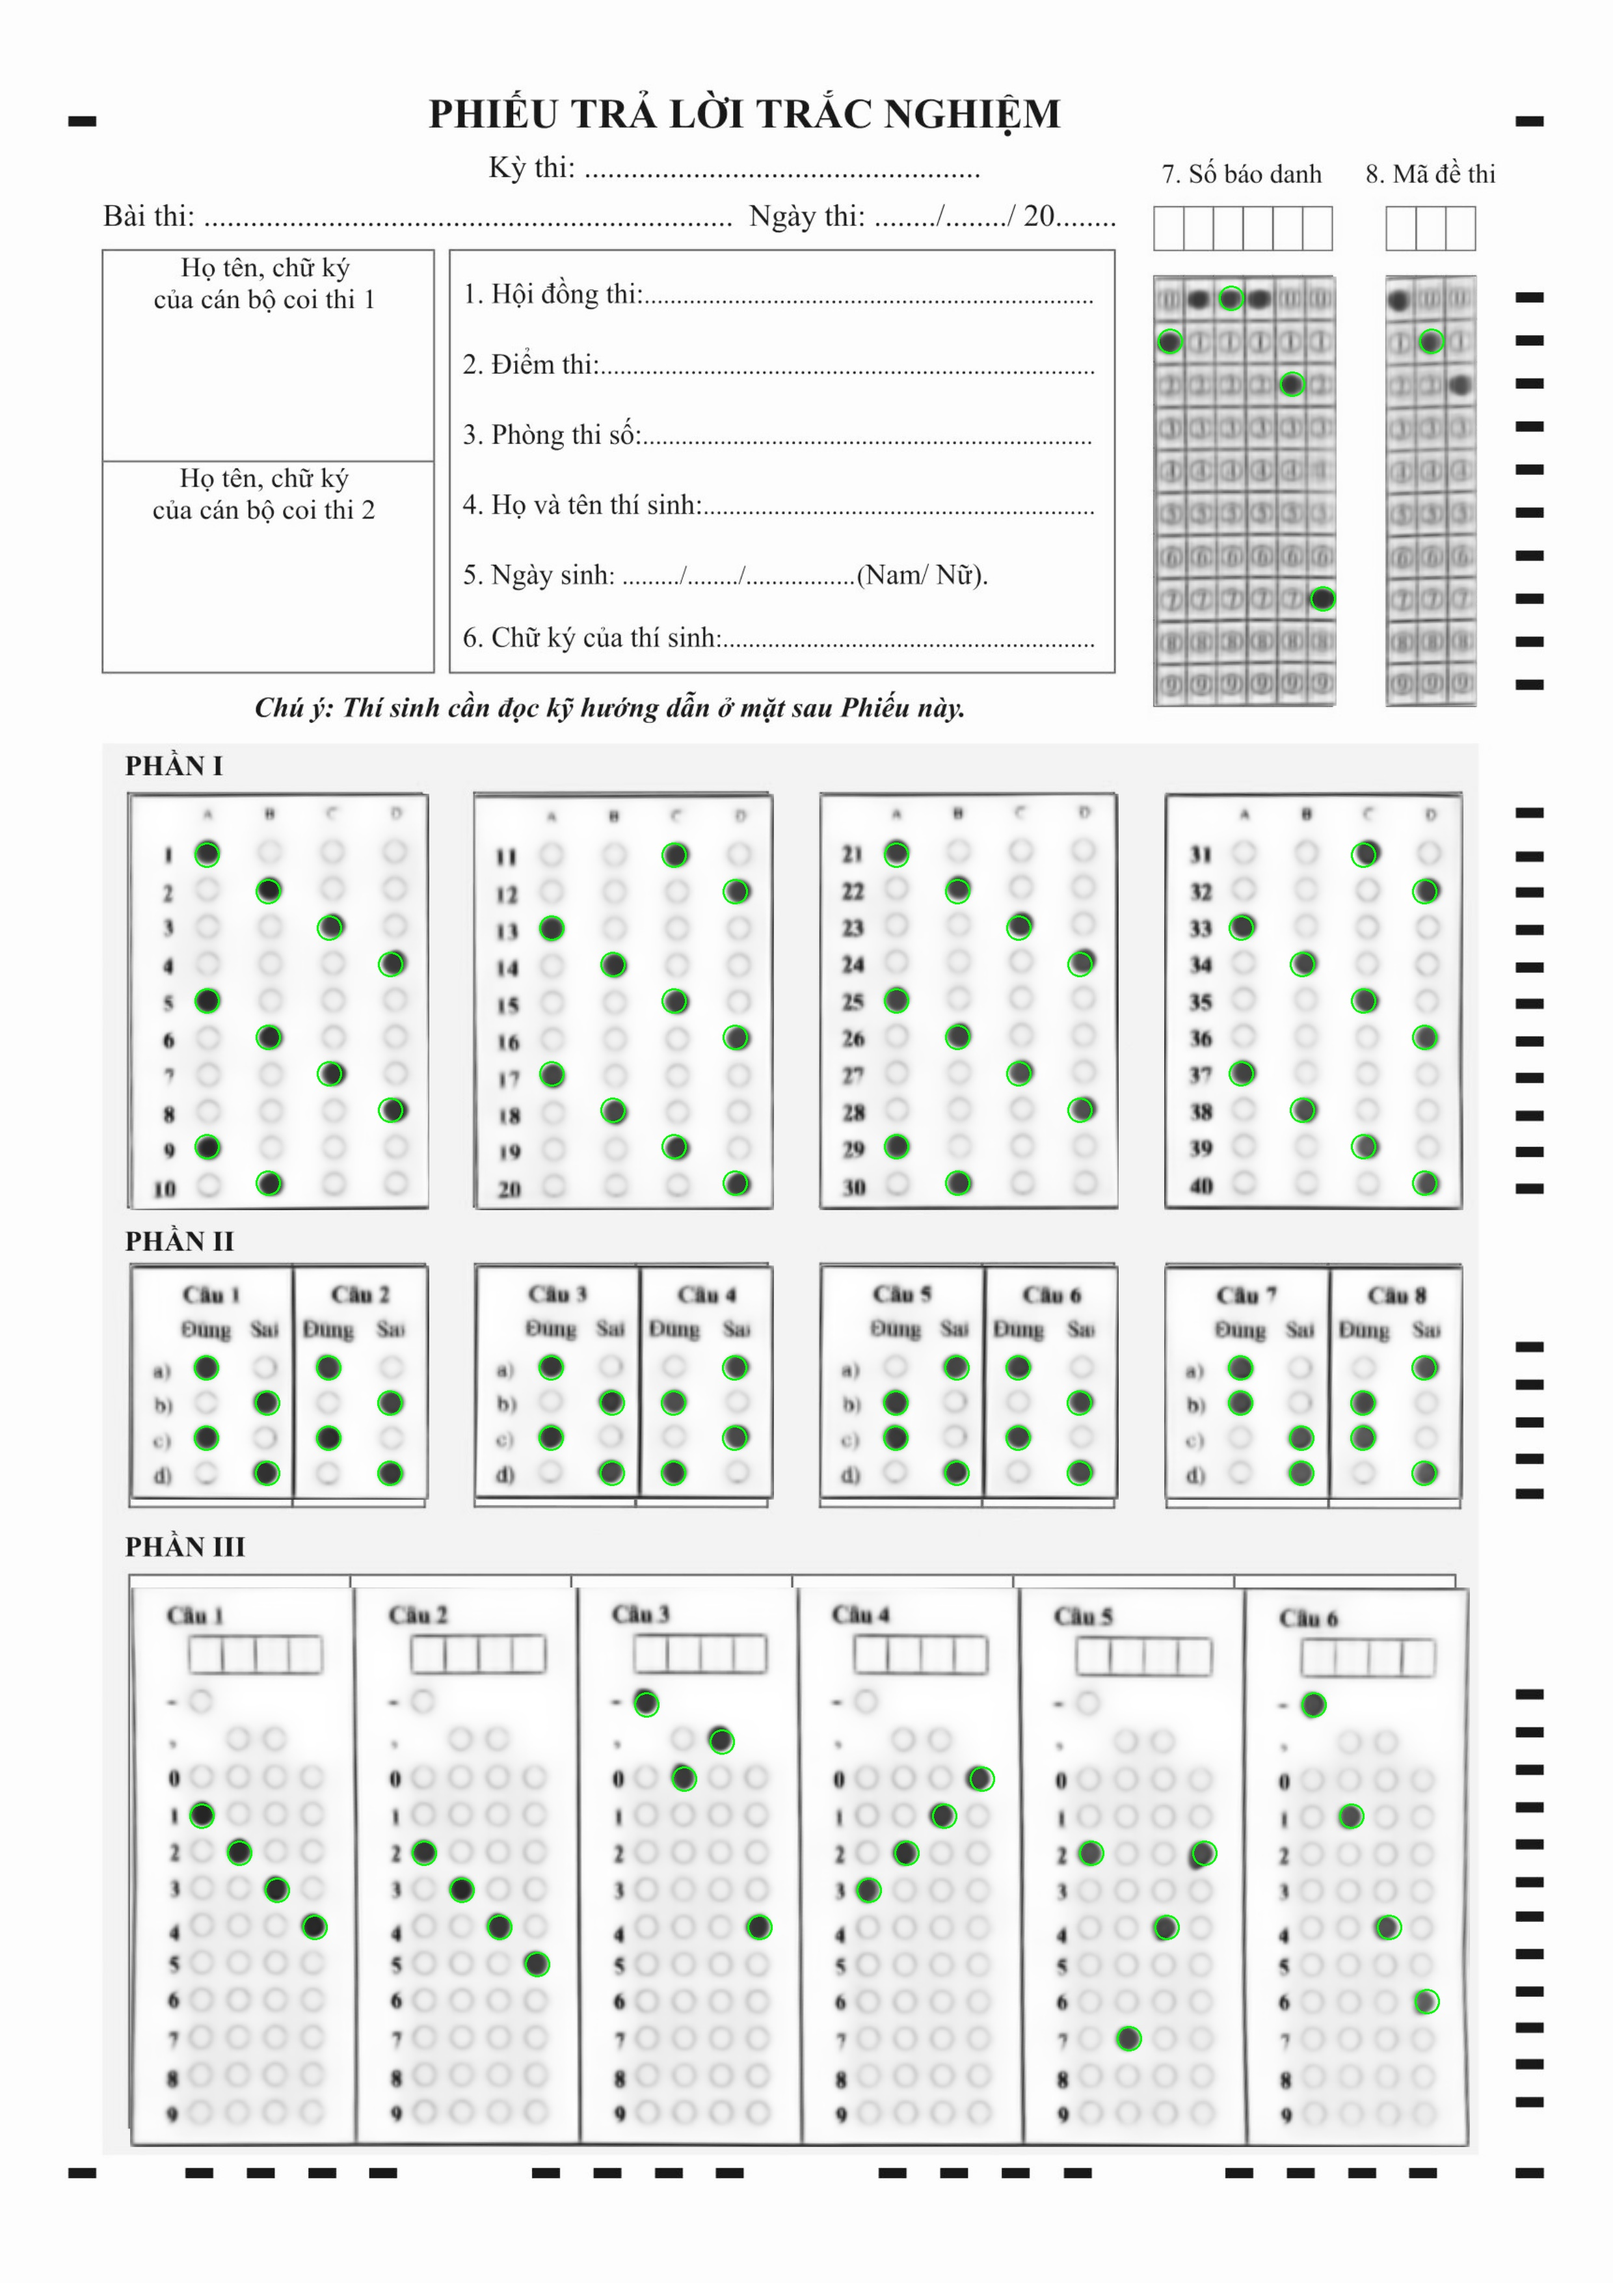
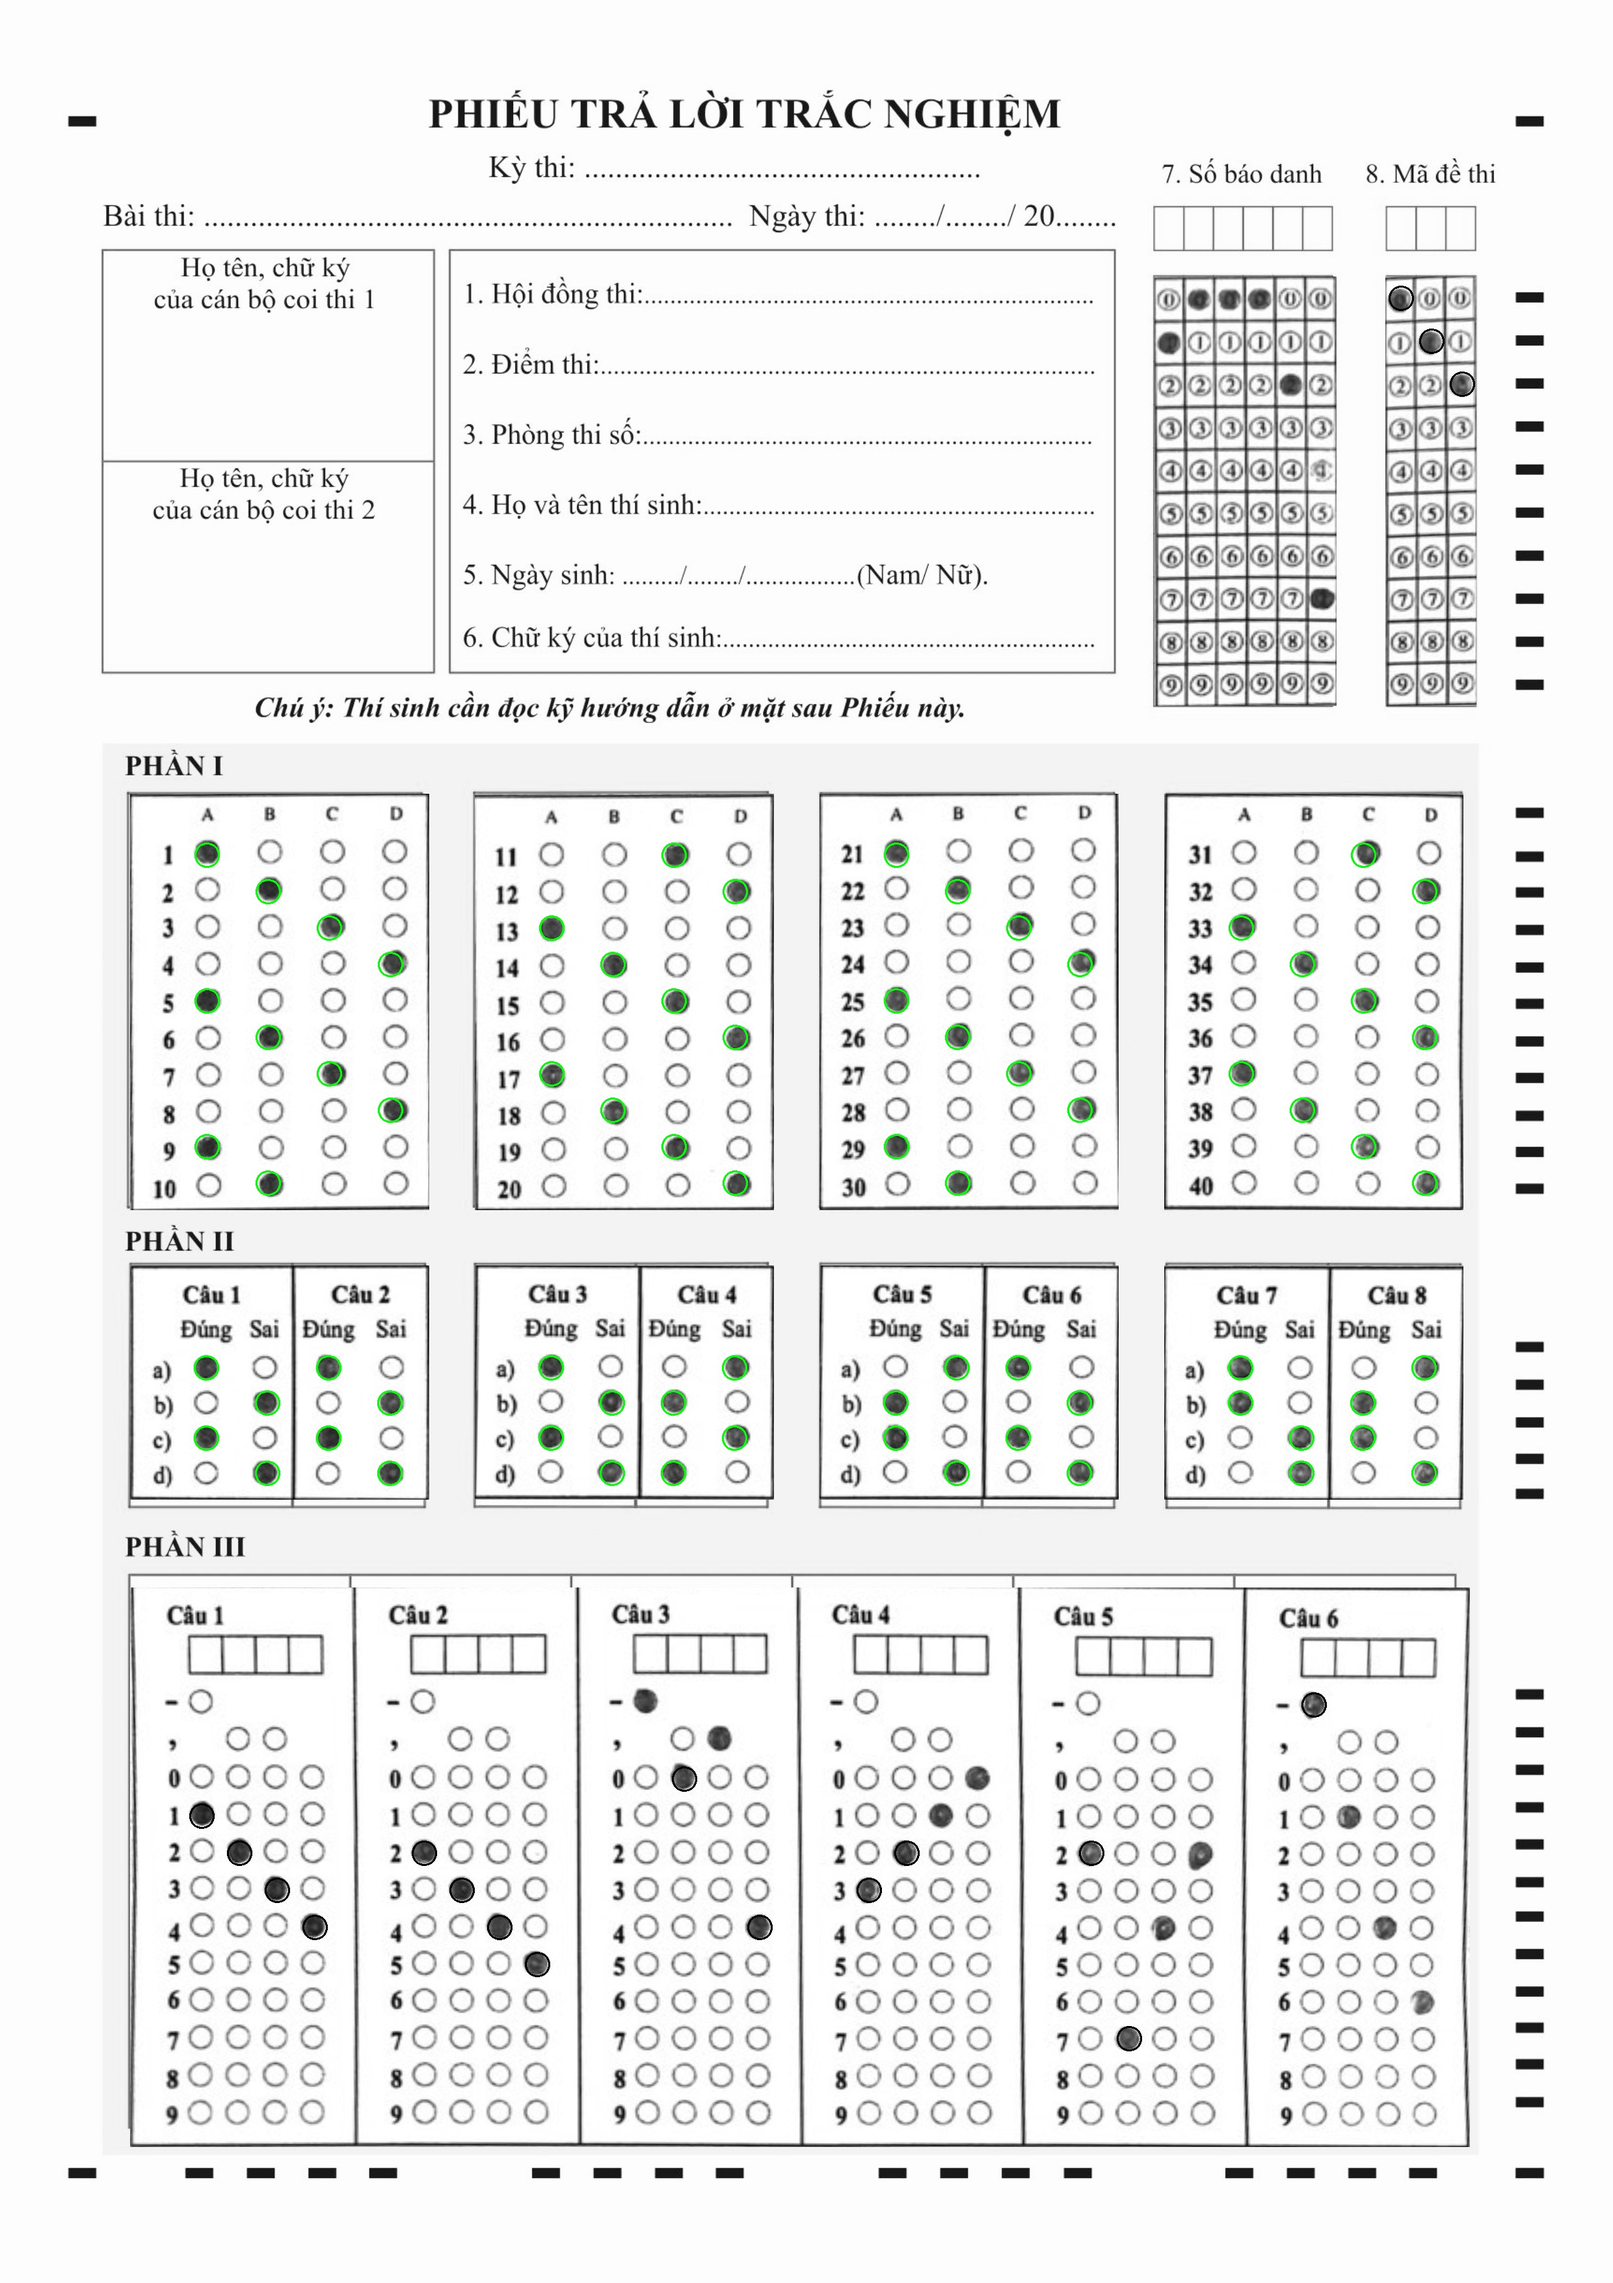
OK

diff --git a/Cham_phieu.py b/Cham_phieu.py
@@ -370,7 +370,7 @@ def cham_phieu(sheet):
     cv2.waitKey(0)
 
 
-cham_phieu('PhieuQG/PhieuQG.0124.jpg')
+cham_phieu('PhieuQG/PhieuQG.0043.jpg')
 
 # folder_path = 'PhieuQG'
 # all_files = glob.glob(f'{folder_path}/*')
